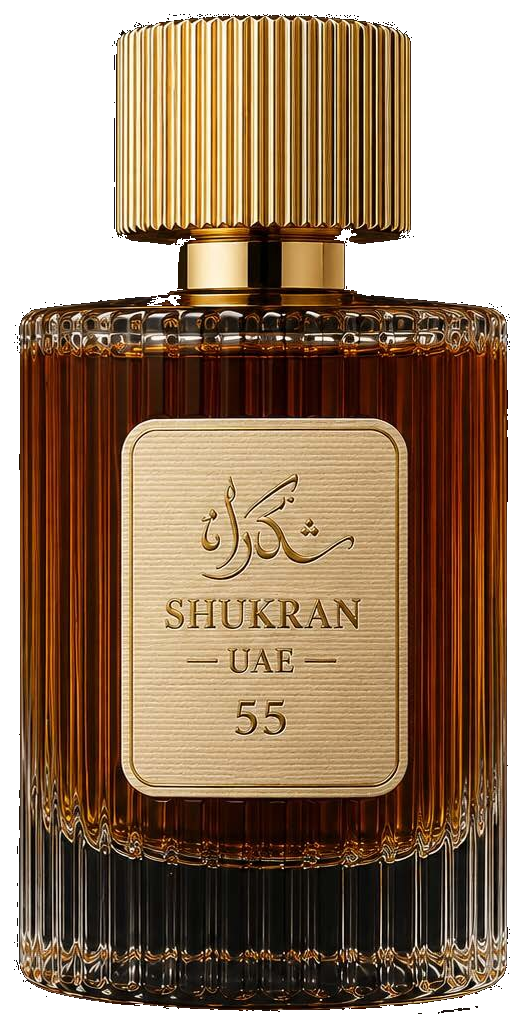
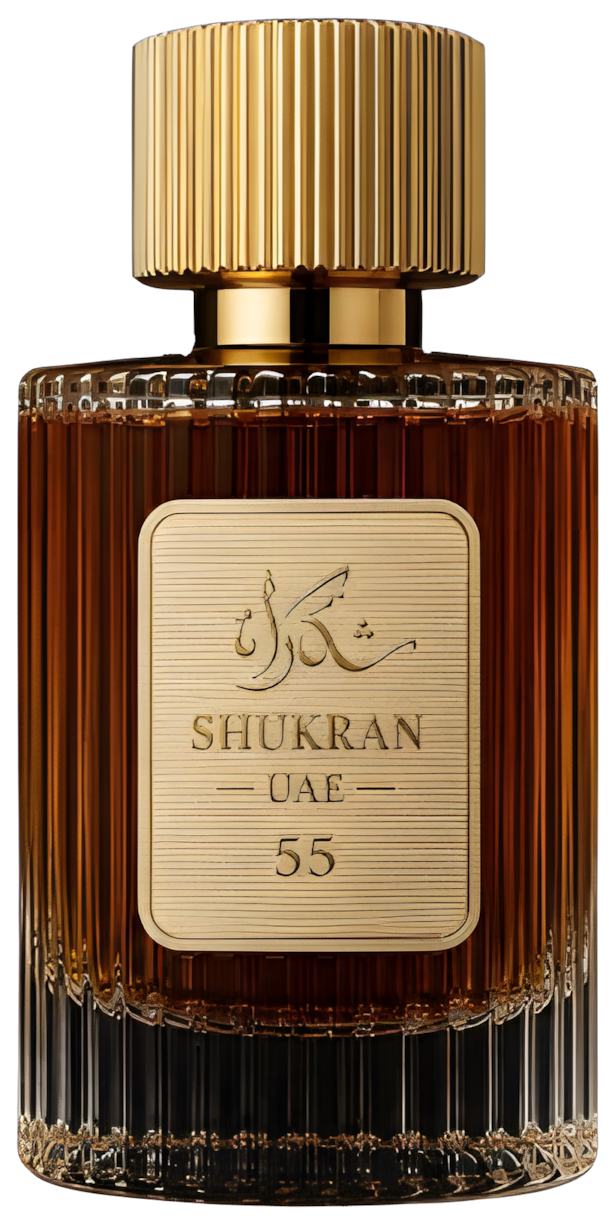
fix: Pheromones — флип карточек на iOS Safari, цвет подсказки, новый флакон
- Исправлено наложение лицевой/обратной стороны карточки при флипе на
  мобильном Safari: добавлено явное скрытие через visibility с задержкой
  до середины анимации (backface-visibility ненадёжен в WebKit)
- Цвет "Раскрыть аромат" и подчёркивания заменён на фирменный --logo-gold
- Заменено фото флакона на улучшенную версию (без фона, выше качество),
  уменьшен размер и отцентрован по образцу

diff --git a/index.html b/index.html
@@ -431,7 +431,7 @@
                 <div class="pher-card-bottle-wrap">
                   <picture>
                     <source srcset="assets/images/pher-card-bottle.webp" type="image/webp">
-                    <img class="pher-card-bottle" src="assets/images/pher-card-bottle.png" alt="" loading="lazy" width="524" height="1110">
+                    <img class="pher-card-bottle" src="assets/images/pher-card-bottle.png" alt="" loading="lazy" width="615" height="1224">
                   </picture>
                 </div>
                 <span class="pher-card-accent" data-i18n="pher_1_accent">Уверенность</span>
@@ -463,7 +463,7 @@
                 <div class="pher-card-bottle-wrap">
                   <picture>
                     <source srcset="assets/images/pher-card-bottle.webp" type="image/webp">
-                    <img class="pher-card-bottle" src="assets/images/pher-card-bottle.png" alt="" loading="lazy" width="524" height="1110">
+                    <img class="pher-card-bottle" src="assets/images/pher-card-bottle.png" alt="" loading="lazy" width="615" height="1224">
                   </picture>
                 </div>
                 <span class="pher-card-accent" data-i18n="pher_2_accent">Магнетизм</span>
@@ -495,7 +495,7 @@
                 <div class="pher-card-bottle-wrap">
                   <picture>
                     <source srcset="assets/images/pher-card-bottle.webp" type="image/webp">
-                    <img class="pher-card-bottle" src="assets/images/pher-card-bottle.png" alt="" loading="lazy" width="524" height="1110">
+                    <img class="pher-card-bottle" src="assets/images/pher-card-bottle.png" alt="" loading="lazy" width="615" height="1224">
                   </picture>
                 </div>
                 <span class="pher-card-accent" data-i18n="pher_3_accent">Харизма</span>
@@ -527,7 +527,7 @@
                 <div class="pher-card-bottle-wrap">
                   <picture>
                     <source srcset="assets/images/pher-card-bottle.webp" type="image/webp">
-                    <img class="pher-card-bottle" src="assets/images/pher-card-bottle.png" alt="" loading="lazy" width="524" height="1110">
+                    <img class="pher-card-bottle" src="assets/images/pher-card-bottle.png" alt="" loading="lazy" width="615" height="1224">
                   </picture>
                 </div>
                 <span class="pher-card-accent" data-i18n="pher_4_accent">Свобода</span>
@@ -559,7 +559,7 @@
                 <div class="pher-card-bottle-wrap">
                   <picture>
                     <source srcset="assets/images/pher-card-bottle.webp" type="image/webp">
-                    <img class="pher-card-bottle" src="assets/images/pher-card-bottle.png" alt="" loading="lazy" width="524" height="1110">
+                    <img class="pher-card-bottle" src="assets/images/pher-card-bottle.png" alt="" loading="lazy" width="615" height="1224">
                   </picture>
                 </div>
                 <span class="pher-card-accent" data-i18n="pher_5_accent">Гармония</span>
@@ -591,7 +591,7 @@
                 <div class="pher-card-bottle-wrap">
                   <picture>
                     <source srcset="assets/images/pher-card-bottle.webp" type="image/webp">
-                    <img class="pher-card-bottle" src="assets/images/pher-card-bottle.png" alt="" loading="lazy" width="524" height="1110">
+                    <img class="pher-card-bottle" src="assets/images/pher-card-bottle.png" alt="" loading="lazy" width="615" height="1224">
                   </picture>
                 </div>
                 <span class="pher-card-accent" data-i18n="pher_6_accent">Успех</span>

diff --git a/src/css/sections/pheromones.css b/src/css/sections/pheromones.css
@@ -207,6 +207,7 @@
 .pher-card {
   flex-shrink: 0;
   perspective: 1500px;
+  -webkit-perspective: 1500px;
   cursor: pointer;
   outline: none;
   transition: opacity 0.5s ease;
@@ -222,7 +223,9 @@
   width: 100%;
   height: 100%;
   transform-style: preserve-3d;
+  -webkit-transform-style: preserve-3d;
   transform: translateZ(0.01px);
+  -webkit-transform: translateZ(0.01px);
   transition: transform 0.8s cubic-bezier(0.75, 0, 0.85, 1);
 }
 
@@ -233,6 +236,7 @@
 
 .pher-card.is-flipped .pher-card-inner {
   transform: rotateY(180deg) translateZ(0.01px);
+  -webkit-transform: rotateY(180deg) translateZ(0.01px);
 }
 
 /* Соседние карточки слегка затемняются, пока одна развёрнута */
@@ -245,14 +249,22 @@
   position: absolute;
   inset: 0;
   backface-visibility: hidden;
+  -webkit-backface-visibility: hidden;
   border: 0.5px solid var(--pher-card-border);
   border-radius: 4px;
   overflow: hidden;
   background: var(--pher-card-bg);
+  /* Safari iOS не всегда прячет обратную сторону через backface-visibility —
+     дублируем скрытие через visibility с задержкой до середины анимации
+     флипа (0.8s / 2 = 0.4s), чтобы стороны не "просвечивали" друг сквозь друга */
+  visibility: visible;
+  transition: visibility 0s linear 0.4s;
 }
 
 .pher-card-face--back {
   transform: rotateY(180deg);
+  -webkit-transform: rotateY(180deg);
+  visibility: hidden;
   display: flex;
   flex-direction: column;
   padding: clamp(20px, 3vw, 28px);
@@ -272,6 +284,14 @@
   align-items: center;
   padding: clamp(20px, 3vw, 28px) clamp(20px, 3vw, 28px) clamp(48px, 5vw, 60px);
   gap: 16px;
+}
+
+.pher-card.is-flipped .pher-card-face--front {
+  visibility: hidden;
+}
+
+.pher-card.is-flipped .pher-card-face--back {
+  visibility: visible;
 }
 
 /* Скрытый фон (scent-иллюстрация) — проявляется на hover, десктоп */
@@ -344,8 +364,8 @@
 }
 
 .pher-card-bottle {
-  max-width: 40%;
-  max-height: 65%;
+  max-width: 36%;
+  max-height: 60%;
   width: auto;
   height: auto;
   object-fit: contain;
@@ -384,7 +404,7 @@
   font-size: 14px;
   letter-spacing: 0.3em;
   text-transform: uppercase;
-  color: var(--pher-gold-dark);
+  color: var(--logo-gold);
 }
 
 .pp-card-hint::after {
@@ -392,7 +412,7 @@
   display: block;
   width: 100%;
   height: 1px;
-  background: linear-gradient(90deg, transparent, var(--pher-gold-dark), transparent);
+  background: linear-gradient(90deg, transparent, var(--logo-gold), transparent);
   animation: pp-hint-line 3.5s ease-in-out infinite;
   transform-origin: center;
 }
